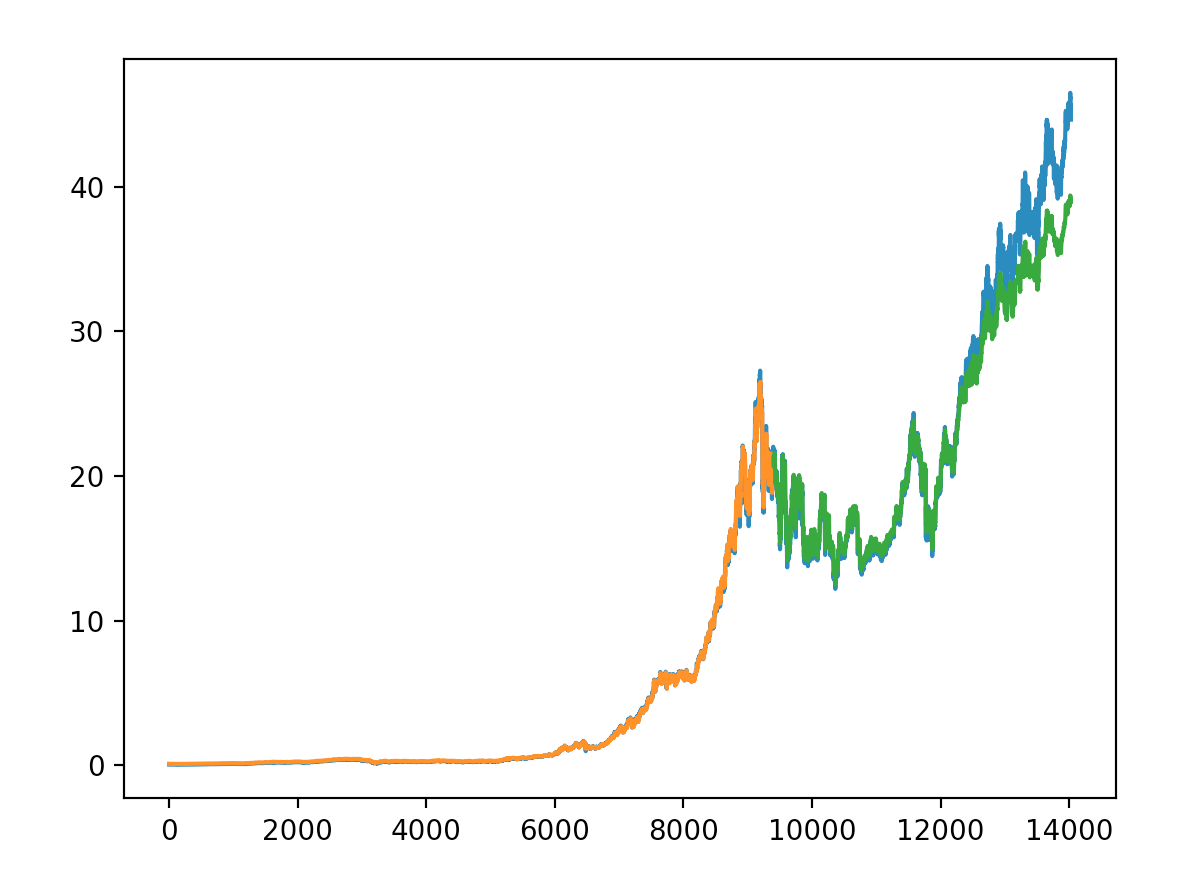
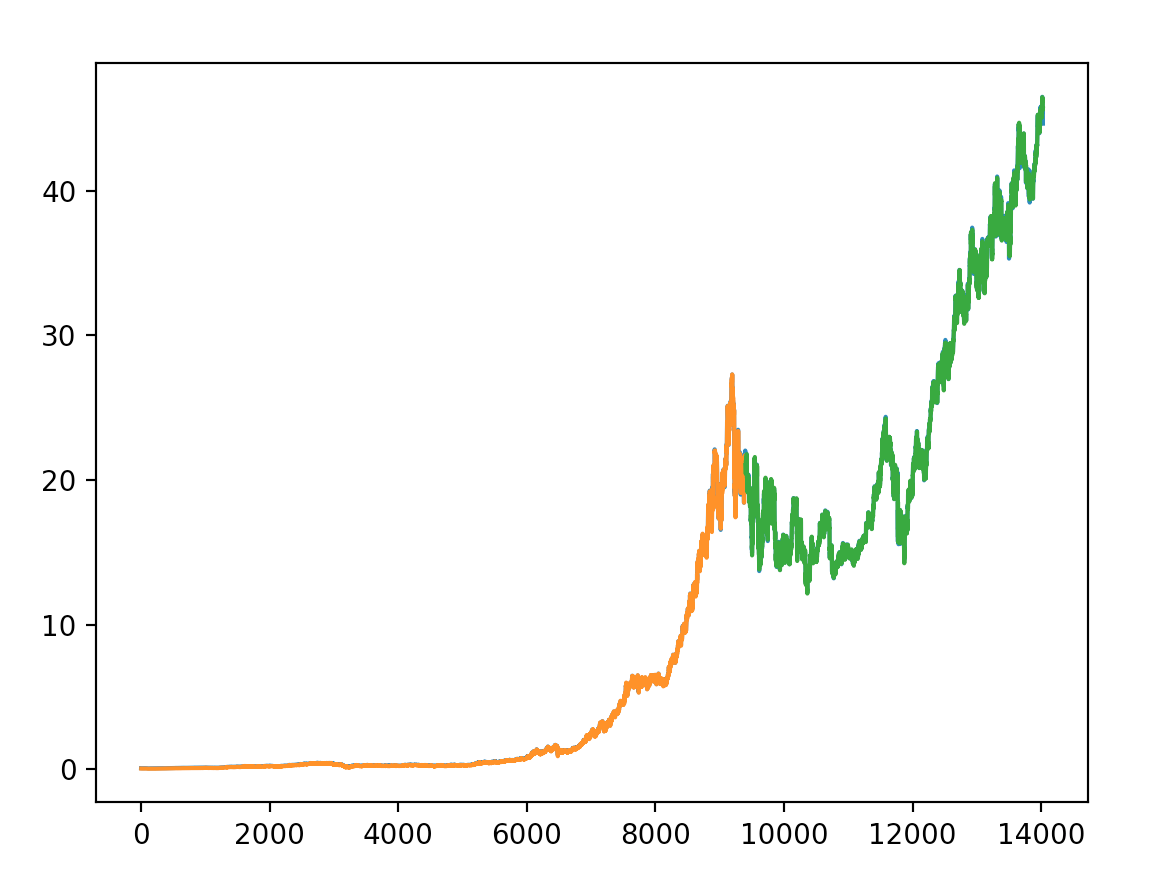
time steps reg added

diff --git a/LSTMs-stock-data/stocks-reg-time-steps.py b/LSTMs-stock-data/stocks-reg-time-steps.py
@@ -50,10 +50,10 @@ testX = numpy.reshape(testX, (testX.shape[0], testX.shape[1], 1))
 #print(testX.shape) #(4626, 3, 1)
 # create and fit the LSTM network
 model = Sequential()
-model.add(LSTM(4, input_shape=(look_back, 1)))
+model.add(LSTM(400, input_shape=(look_back, 1)))
 model.add(Dense(1))
 model.compile(loss='mean_squared_error', optimizer='adam')
-model.fit(trainX, trainY, epochs=100, batch_size=150, verbose=2)
+model.fit(trainX, trainY, epochs=100, batch_size=20, validation_data=(testX, testY), verbose=2)
 # make predictions
 trainPredict = model.predict(trainX)
 testPredict = model.predict(testX)
@@ -89,6 +89,19 @@ print(predictions)
 
 persistence_rmse_normalized = math.sqrt(my_mean_squared_error(testY[0], predictions))
 print('Testing against persistence model (normalized): %f' % persistence_rmse_normalized)
+predictions2 = list()
+for i in range(len(trainY[0]) - 1):
+    # make prediction
+    predictions2.append(trainY[0][i + 1])
+    # observation
+    #history.append(trainY[0][i])
+predictions2.append(testY[0][1])
+
+persistence_rmse_normalized2 = math.sqrt(my_mean_squared_error(trainY[0], predictions2))
+print('Testing against persistence model for training (normalized): %f' % persistence_rmse_normalized2)
+persistence_rmse2 = math.sqrt(mean_squared_error(trainY[0], predictions2))
+print('Testing against persistence model for training (unnormalized): %f' % persistence_rmse2)
+
 
 # shift train predictions for plotting
 trainPredictPlot = numpy.empty_like(dataset)
